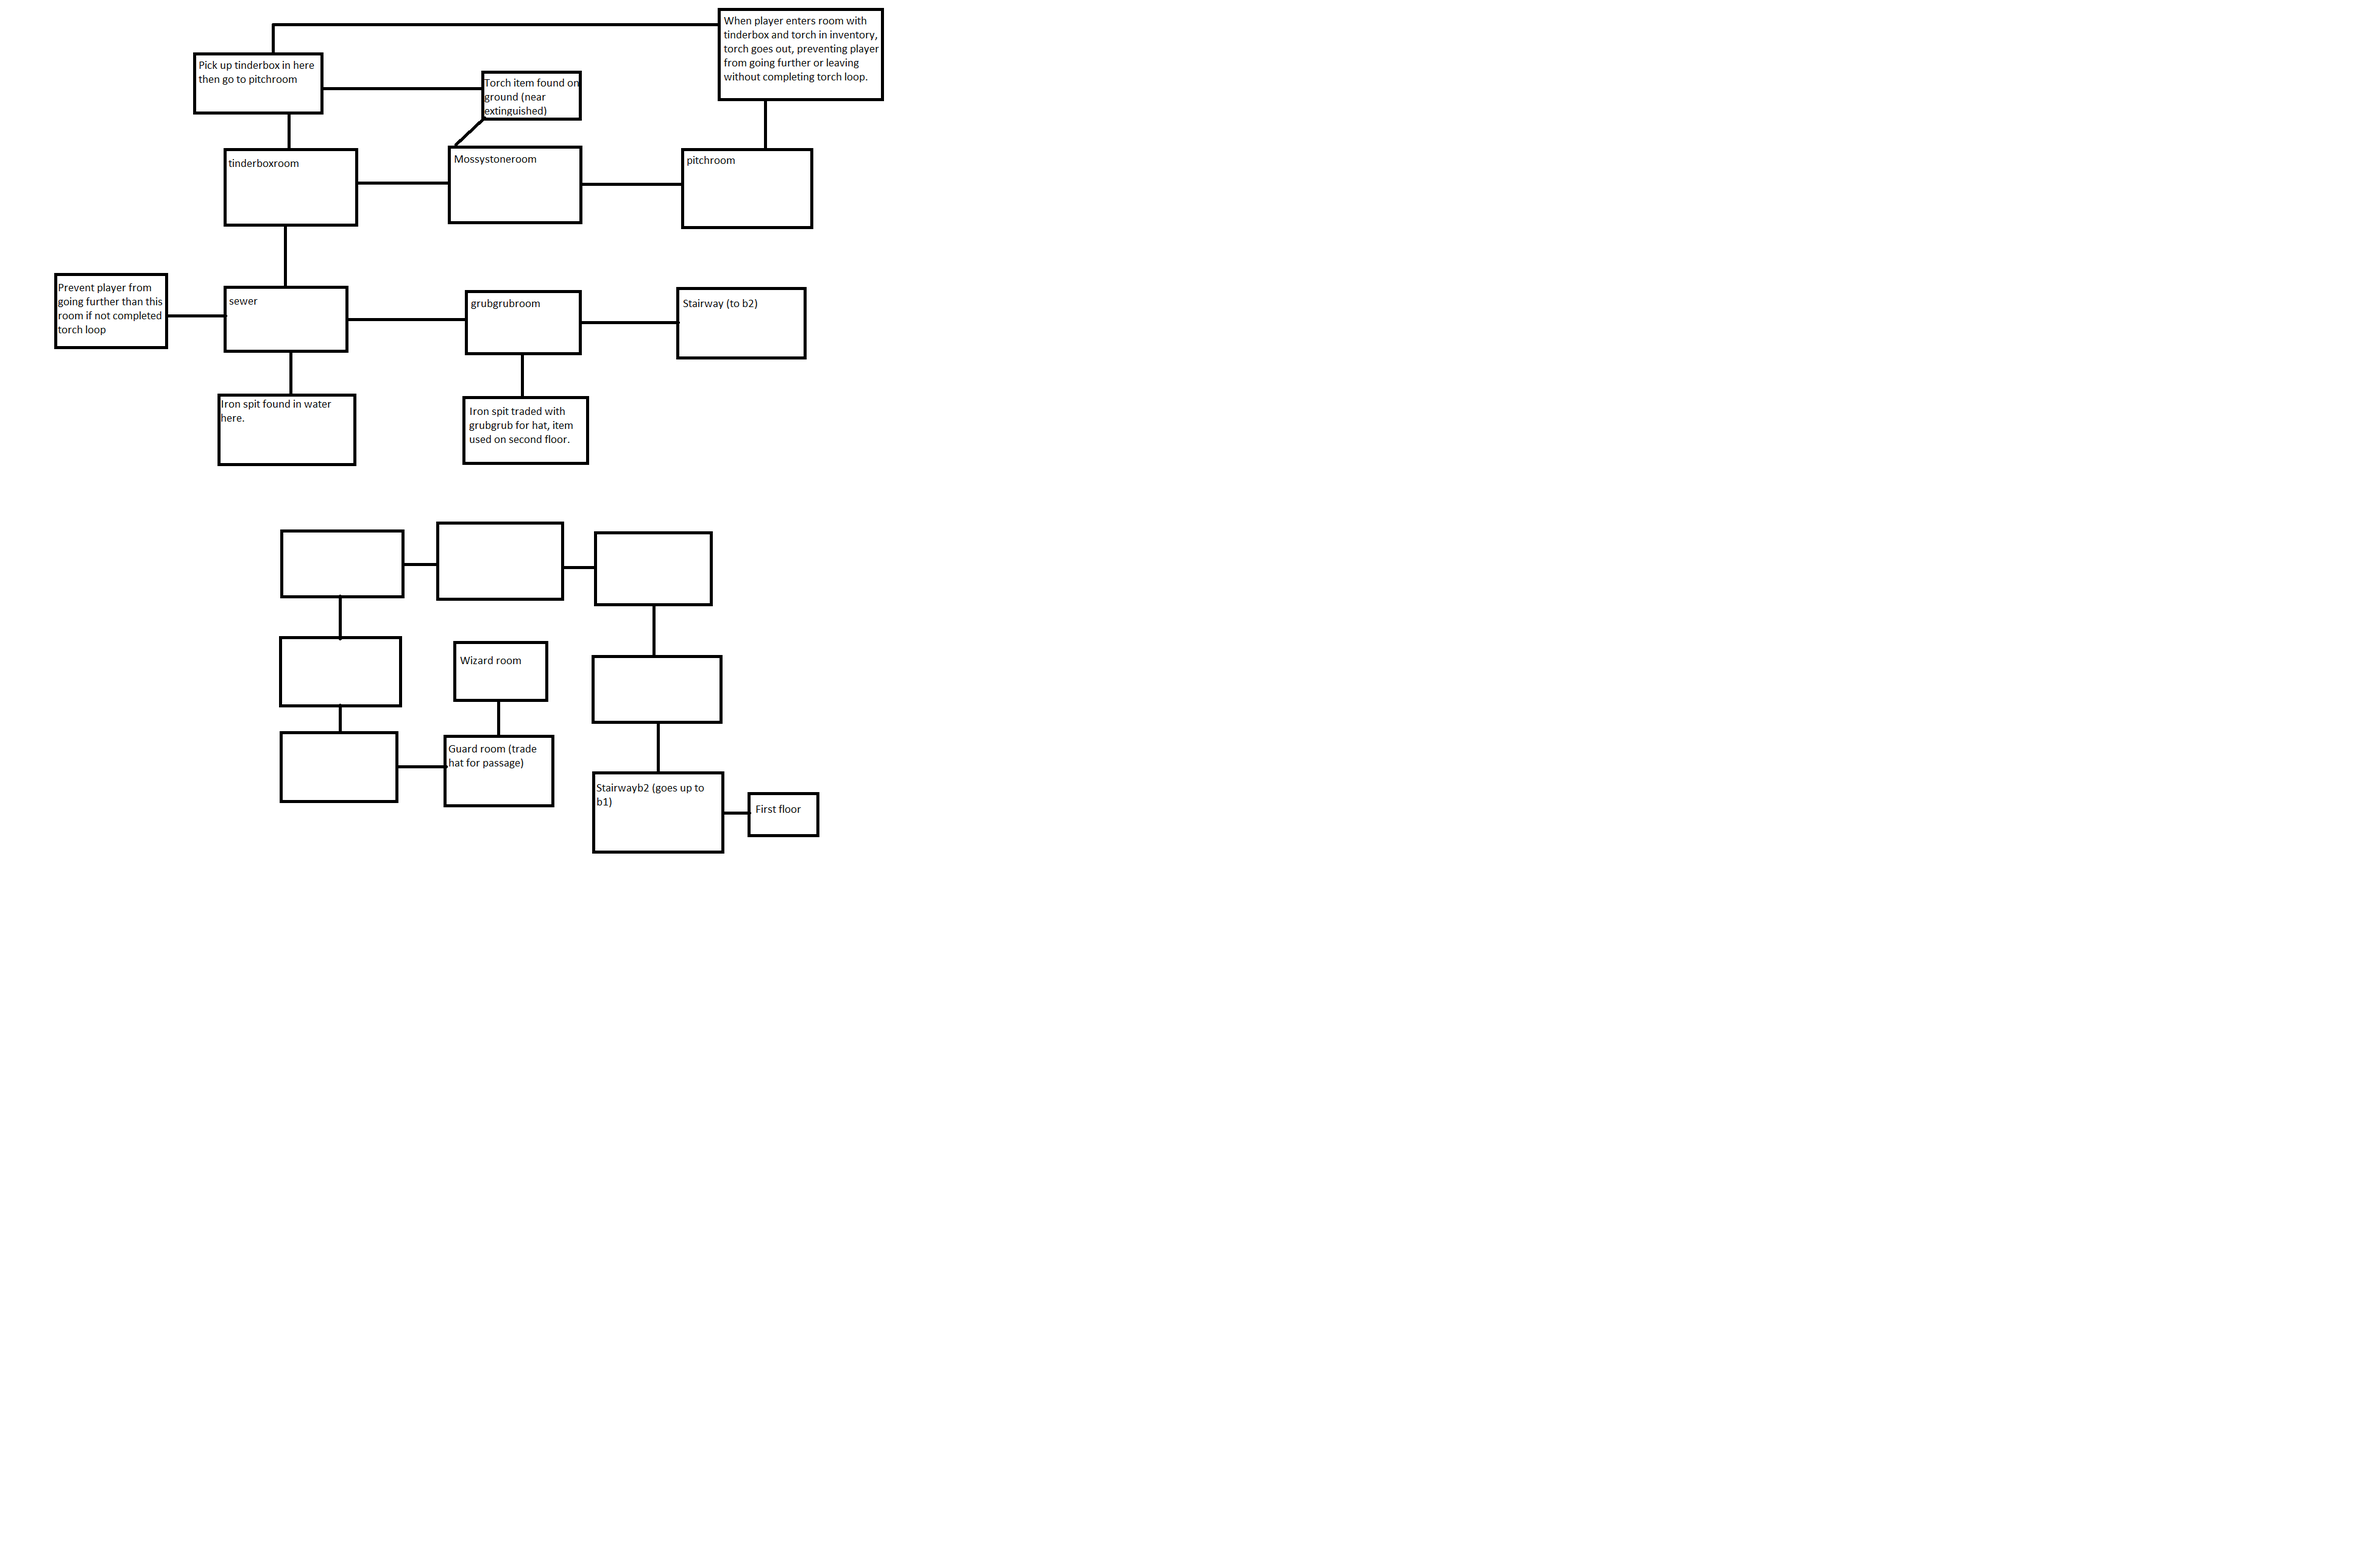
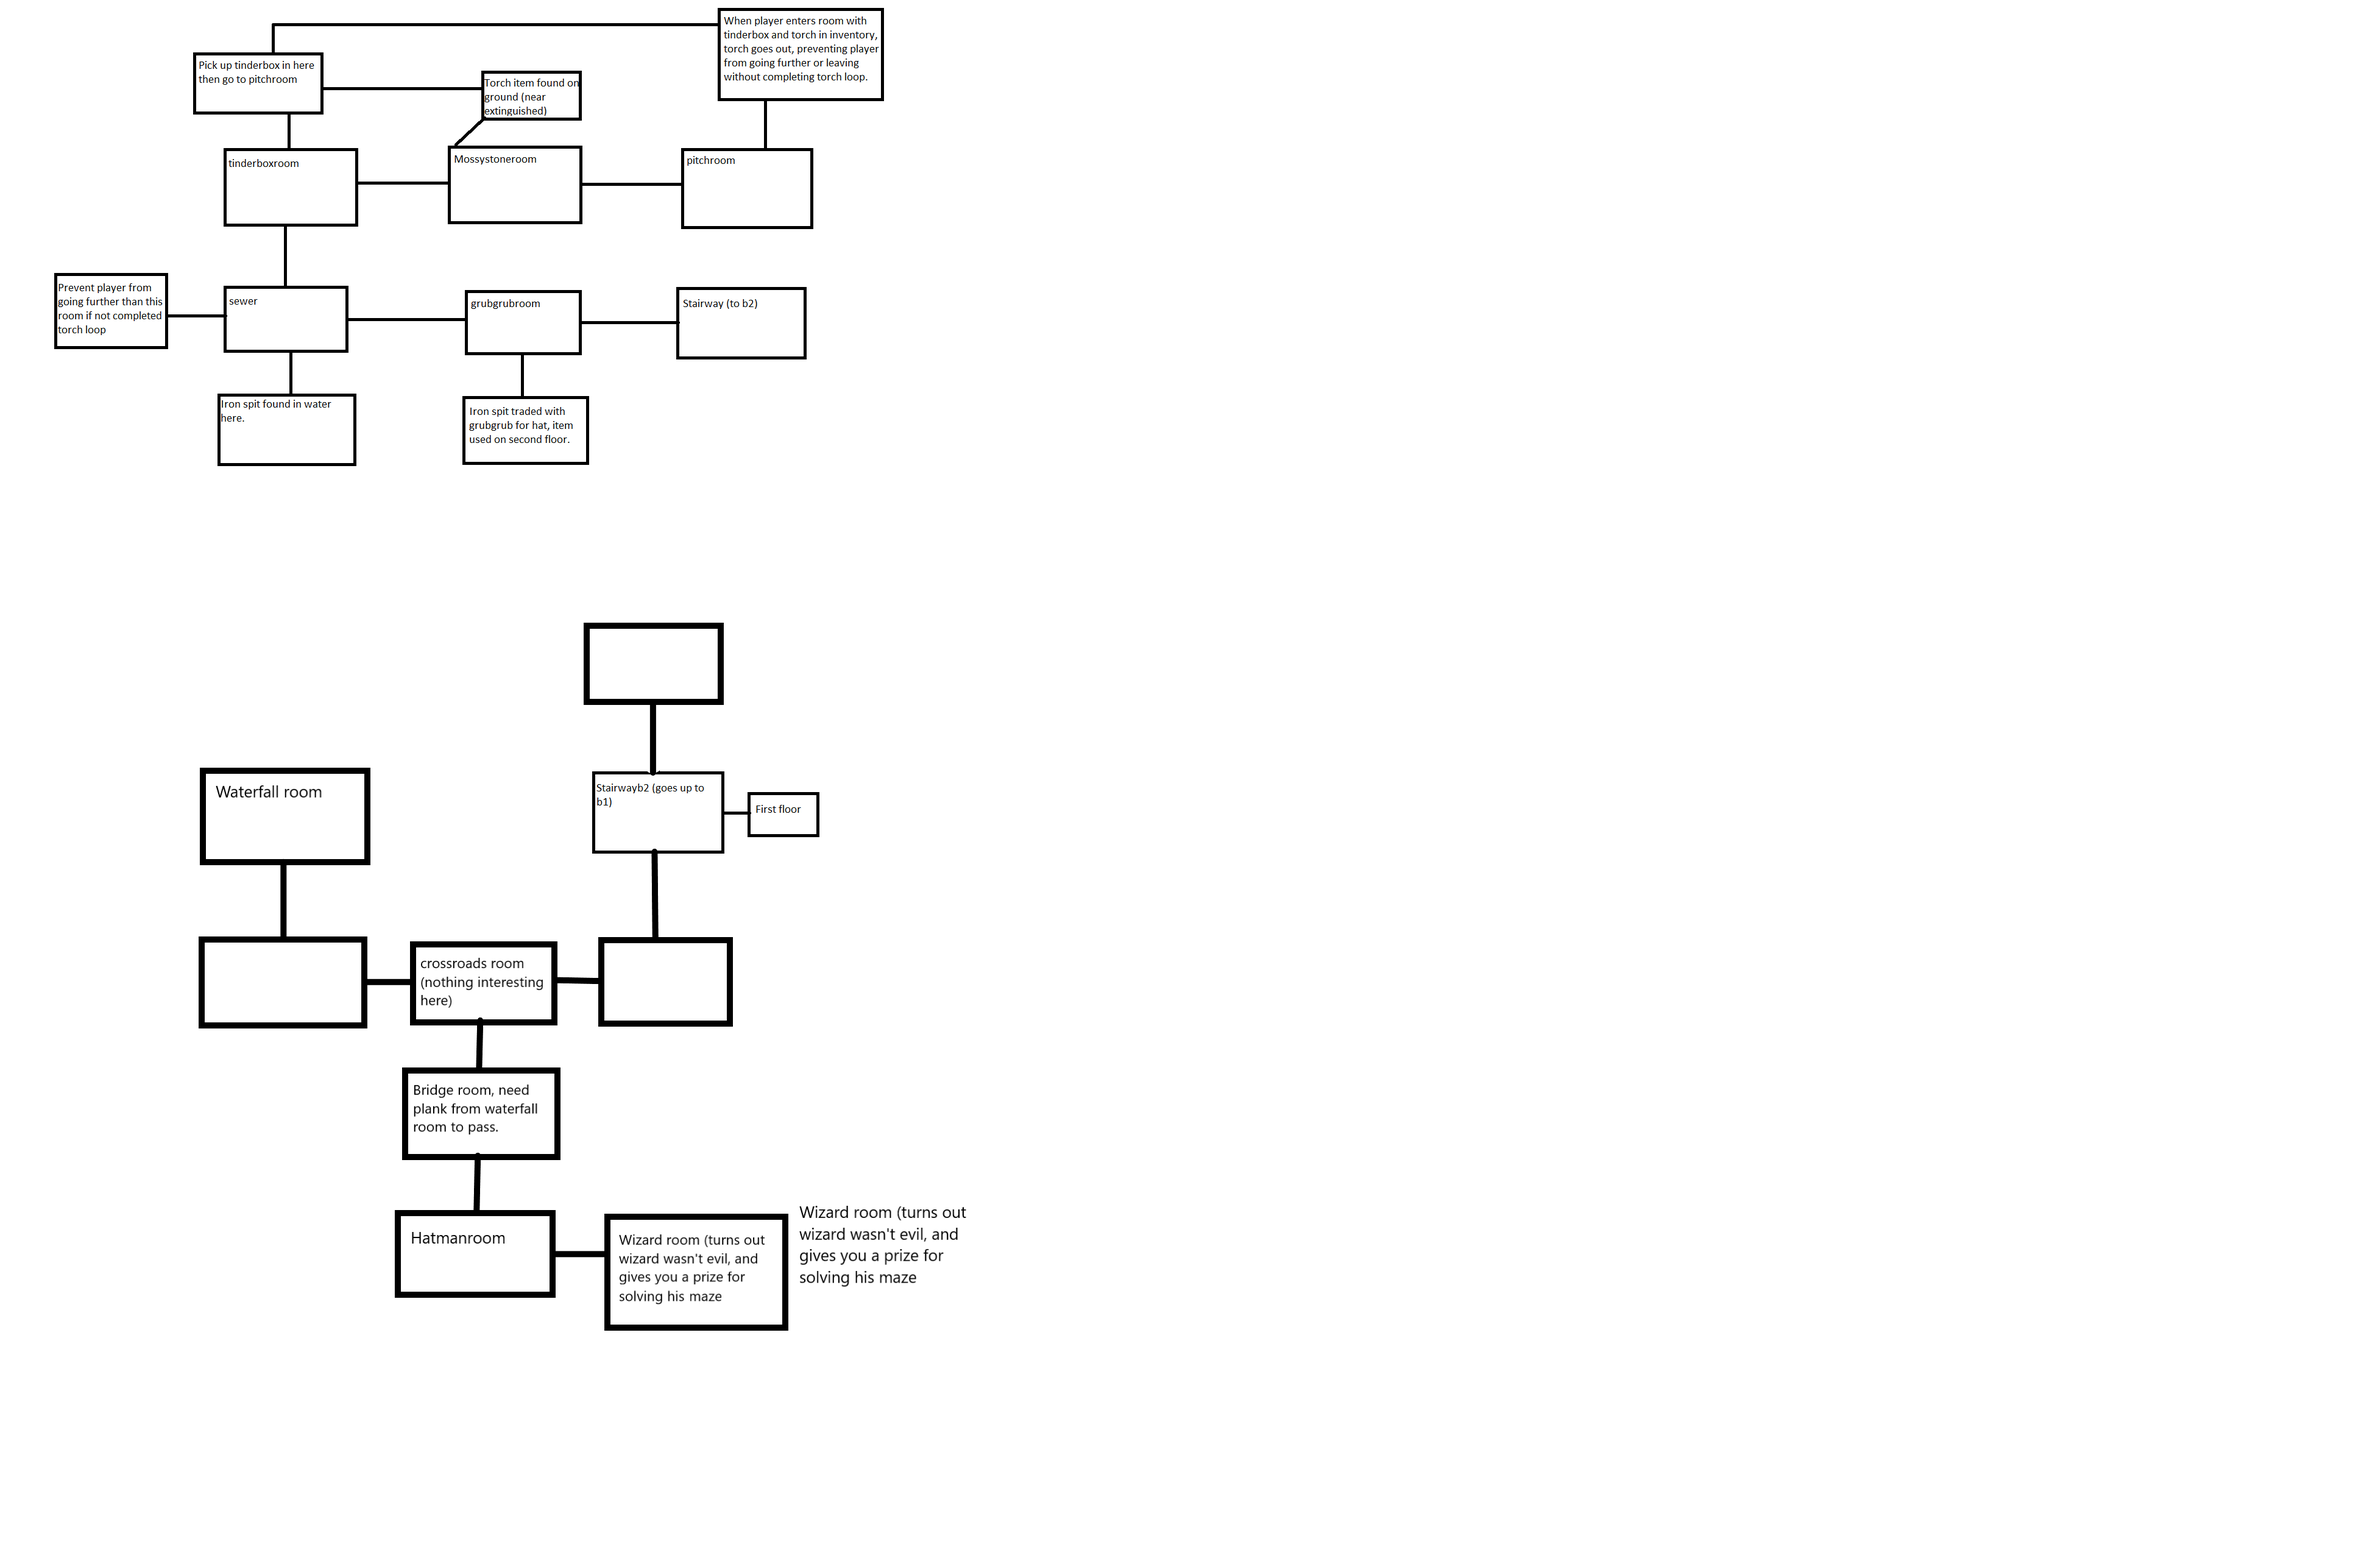
build .2
Look command added
all rooms now instanciated (TODO: flesh out filler rooms)
Inventory system coding started.
core gameplay loop planned.

diff --git a/Game.java b/Game.java
@@ -1,8 +1,6 @@
 /**
- *  This class is the main class of the "World of Zuul" application. 
- *  "World of Zuul" is a very simple, text based adventure game.  Users 
- *  can walk around some scenery. That's all. It should really be extended 
- *  to make it more interesting!
+ *  This class is the main class of the "The Labyrinth" application. 
+ *  "Labyrinth" is a very simple, text based adventure game. 
  * 
  *  To play this game, create an instance of this class and call the "play"
  *  method.
@@ -11,8 +9,9 @@
  *  rooms, creates the parser and starts the game.  It also evaluates and
  *  executes the commands that the parser returns.
  * 
- * @author  Michael Kölling and David J. Barnes
- * @version 2011.08.10
+ * 
+ * @author Andrew Riganati
+ * @version 2019.08.04
  */
 
 public class Game 
@@ -34,7 +33,9 @@ public class Game
      */
     private void createRooms()
     {
-        Room mossystoneroom, pitchroom, tinderboxroom, sewer, grubgrubroom, stairway, stairwayb2;
+        Room mossystoneroom, pitchroom, tinderboxroom, sewer, grubgrubroom, stairway, stairwayb2,
+        northstairroom , southstairroom , crossroads , watercrosscorner, waterfallroom ,
+        hatmanroom , bridgeroom , wizardend;
       
         // create the rooms
         mossystoneroom = new Room("You awake on a cold stone floor." +
@@ -54,7 +55,30 @@ public class Game
         
         stairway = new Room("a stairway, goes up to grubgrubs's grubhub, and down to the next level of the maze.");
         
-        stairwayb2 = new Room("a stairway, goes up to the first floor, north is another room");
+        stairwayb2 = new Room("a stairway, goes up to the first floor, north is another room," +
+      "south is another room");
+      
+      //TODO: give room a purpose
+      northstairroom = new Room("This is the north stair room, if this description is still here tell the developer!");
+      //TODO: give room a purpose
+      southstairroom = new Room("This is the south stair room, if this description is still here telll the developer!");
+      
+      crossroads = new Room(" you enter the new room and come across multiple paths, east is towards the stairs" +
+      "to the distant west you hear the sound of rushing water" + "to the south you hear the distinct sound of a chasm");
+      
+      watercrosscorner = new Room("THis is the watercrosscorner, if this description is still here tell a developer");
+      
+      //plank to cross the bridge room is found here
+      waterfallroom = new Room("TODO: replace me");
+      
+      bridgeroom = new Room("You enter the next room, and wave your arms frantically as you nearly fall into an abyss" +
+      "due to lack of floor. You look around, you see a plank resting on a stone pillar,  the other end of the plank rests" +
+      "on the archway leading further south, you'll need something to bridge th gap to get to the stone pillar however!");
+      
+      hatmanroom = new Room("TODO: replace me");
+      
+      wizardend = new Room("TODO: replace me");
+      
         // initialise room exits
         mossystoneroom.setExit("east", pitchroom);
         mossystoneroom.setExit("west", tinderboxroom);
@@ -73,9 +97,25 @@ public class Game
         stairway.setExit("east", stairwayb2);
         
         stairwayb2.setExit("east" , stairway);
-       
+        stairwayb2.setExit("north" , northstairroom);
+        stairwayb2.setExit("south" , southstairroom);
+        
+        northstairroom.setExit("south" , stairwayb2);
+        
+        southstairroom.setExit("north" , stairwayb2);
+        southstairroom.setExit("west" , crossroads);
+        
+        crossroads.setExit("east" , southstairroom);
+        crossroads.setExit("west" , watercrosscorner);
+        crossroads.setExit("south" , bridgeroom);
+        
+        bridgeroom.setExit("north" , crossroads);
+        bridgeroom.setExit("south" , hatmanroom);
+        
+        hatmanroom.setExit("north" , bridgeroom);
+        hatmanroom.setExit("east" , wizardend);
 
-        currentRoom = mossystoneroom;  // start game outside
+        currentRoom = mossystoneroom;  // start game in the mossy stone room.
     }
 
     /**
@@ -136,6 +176,17 @@ public class Game
             case QUIT:
                 wantToQuit = quit(command);
                 break;
+                
+            case LOOK:
+            System.out.println(currentRoom.getLongDescription());
+            break;
+            
+            // case EXAMINE
+            
+            // case USE
+            
+            // case TAKE
+            //inventory.takeitem(item)
         }
         return wantToQuit;
     }

diff --git a/Inventory.java b/Inventory.java
@@ -1,0 +1,40 @@
+import java.util.ArrayList;
+/**
+ *The inventory class is dedicated to storing all items used by the player
+ *in the game, and their present state.
+ *
+ * @author Andrew Riganati
+ * @version 2019.08.04
+ */
+public class Inventory
+{
+    // instance variables - replace the example below with your own
+    //torch is set an int instead of boolean due to having multiple states
+    private int torch;
+    private boolean tinderbox;
+    private boolean hat;
+    private boolean ironspit;
+    private boolean plank;
+    private ArrayList<Inventory> backpack;
+    /**
+     * Constructor for objects of class Inventory
+     * instanciates the inital state of each item. I.E it not having 
+     * been picked up.
+     */
+    public Inventory()
+    {
+        // initialise instance variables
+        //torch has three states, dying (0), pitch soaked (1), and lit(2)
+        //torch = 0;
+        //ironspit = false;
+        //hat = false;
+        //plank = false;
+        backpack = new ArrayList<>();
+    }
+
+    
+    
+    private void takeitem(String item)
+    {
+    }
+}

diff --git a/CommandWord.java b/CommandWord.java
@@ -9,7 +9,7 @@ public enum CommandWord
 {
     // A value for each command word along with its
     // corresponding user interface string.
-    GO("go"), QUIT("quit"), HELP("help"), UNKNOWN("?");
+    GO("go"), QUIT("quit"), HELP("help"),LOOK("look"), UNKNOWN("?");
     
     // The command string.
     private String commandString;
